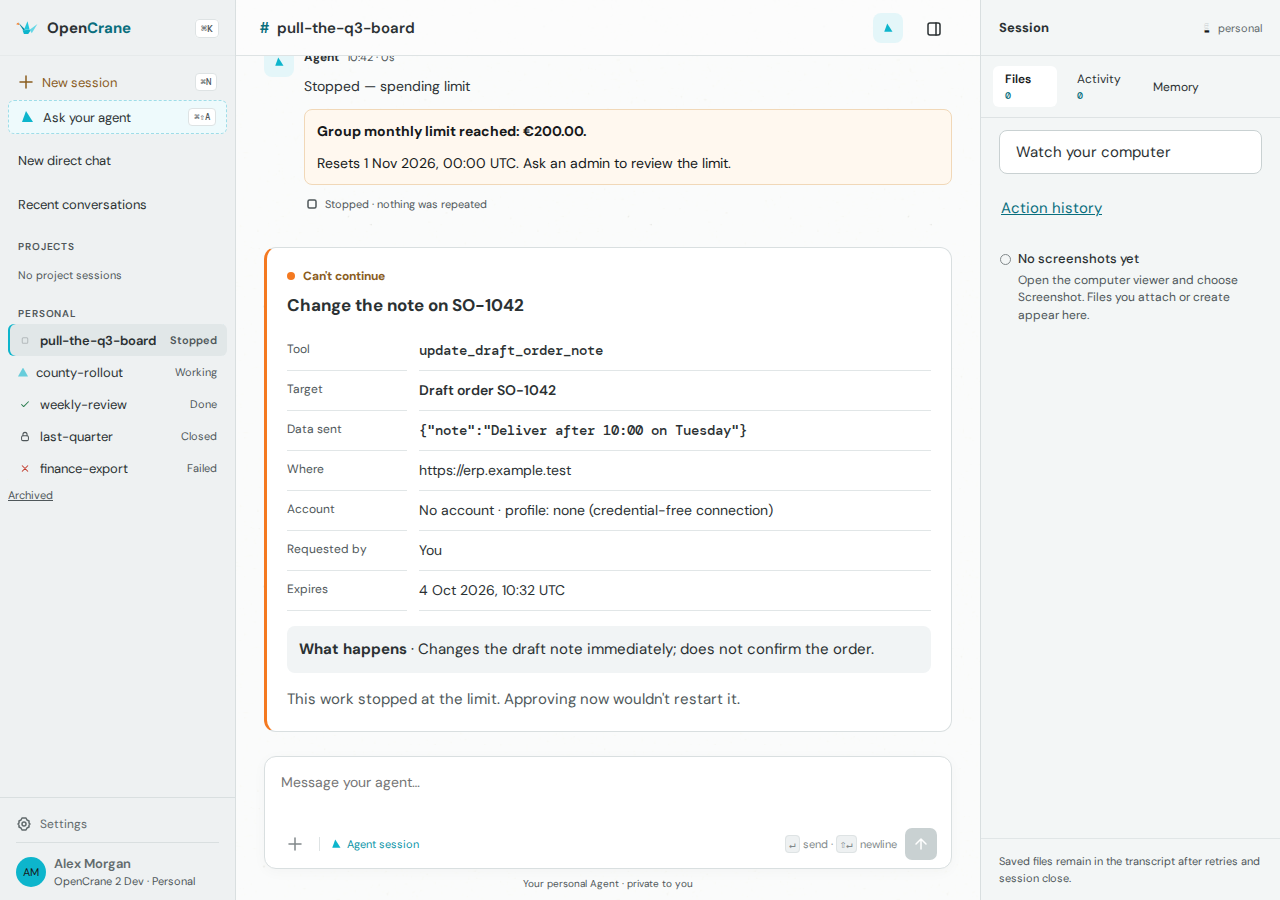
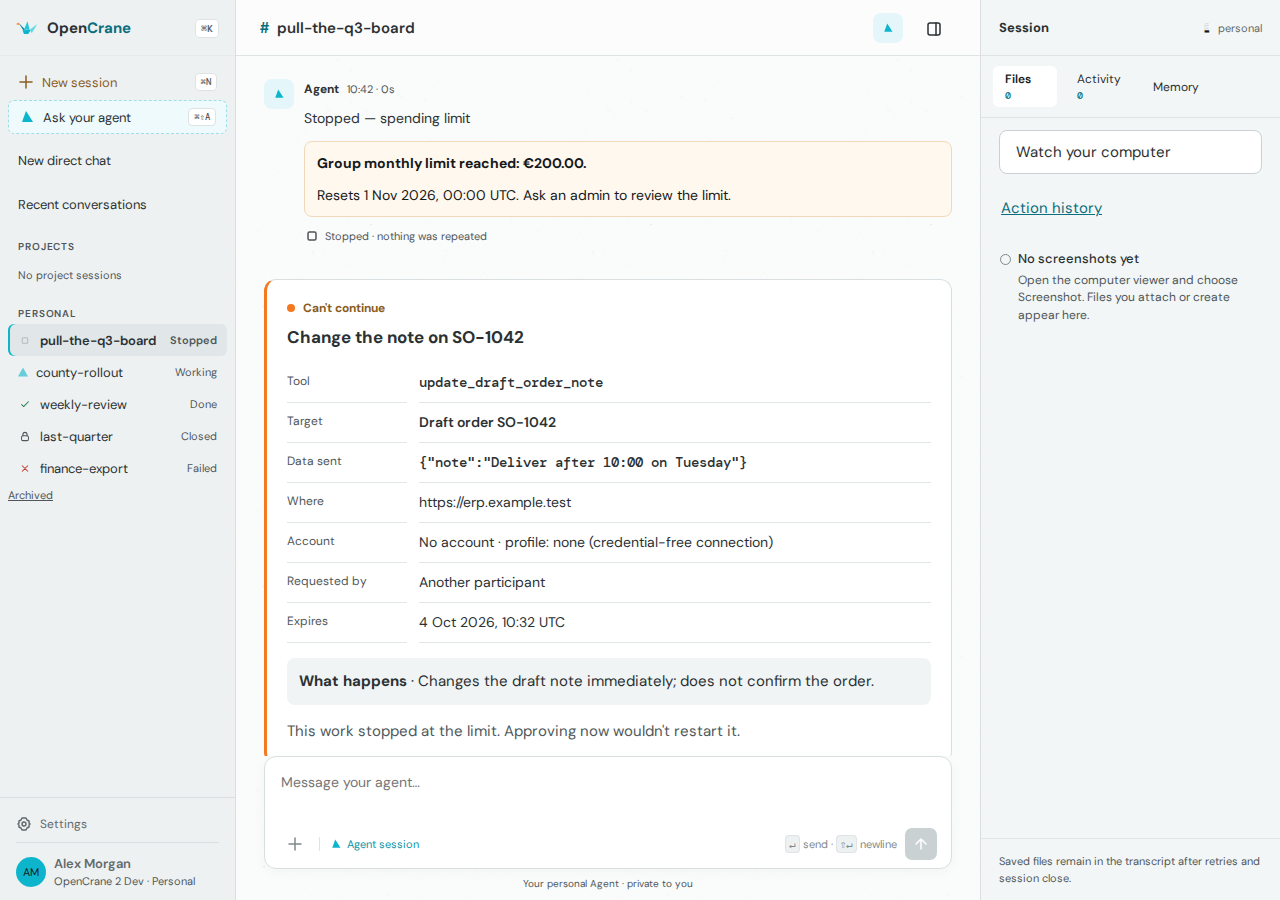
🛑 Show cancelled stop reviews and refresh after end reports

Changed region(s): [[0.2188, 0.0622, 0.6875, 0.84]]

diff --git a/apps/web/src/app/chat/chat-state.ts b/apps/web/src/app/chat/chat-state.ts
@@ -3,6 +3,7 @@ import type { ChatConversation, ChatRow } from '@opencrane/protocol';
 
 export interface Turn {
   id: string; author: 'you' | 'person' | 'agent'; text: string; time: string; endedAt?: string;
+  endReportedAt?: string;
   state: 'working' | 'stopping' | 'done' | 'failed' | 'stopped' | 'lost';
   tools: ToolActivityRecord[];
   files: string[]; budgetStop?: 'budget_exhausted'; screenshotRejected?: true;
@@ -179,9 +180,12 @@ function skipStoppedTurnRow(turn: Turn, row: ChatRow): boolean {
     turn.stopRequested = true;
     turn.endedAt = row.time;
   }
-  // Use the first saved ending report when no stop request ended queued work.
-  if (turn.budgetStop && !turn.stopRequested && (row.type === 'agent.turn_failed'
-    || row.type === 'agent.turn_completed')) turn.endedAt = row.time;
+  // Keep the first end report apart from the time queued work was stopped.
+  if (turn.budgetStop && !turn.endReportedAt && (row.type === 'agent.turn_failed'
+    || row.type === 'agent.turn_completed')) {
+    turn.endReportedAt = row.time;
+    if (!turn.stopRequested) turn.endedAt = row.time;
+  }
   return true;
 }
 
@@ -249,6 +253,7 @@ function updateTurnOutcome(turn: Turn, row: ChatRow, lostOutput: Set<string>): v
   if (row.type === 'agent.turn_failed') {
     turn.state = turn.stopRequested || turn.state === 'stopping' ? 'stopped' : 'failed';
     turn.endedAt = row.time;
+    turn.endReportedAt = row.time;
     markRunningCallsUnconfirmed(turn);
     if (row.data.reason) turn.reason = row.data.reason;
     return;
@@ -256,6 +261,7 @@ function updateTurnOutcome(turn: Turn, row: ChatRow, lostOutput: Set<string>): v
   if (row.type === 'agent.turn_completed') {
     turn.state = lostOutput.has(turn.id) ? 'lost' : 'done';
     turn.endedAt = row.time;
+    turn.endReportedAt = row.time;
     markRunningCallsUnconfirmed(turn);
   }
 }

diff --git a/apps/web/src/app/chat/workspace.spec.ts b/apps/web/src/app/chat/workspace.spec.ts
@@ -837,7 +837,7 @@ it('refreshes unavailable stop details once when queued work gets its end report
   ]);
   const initialFetch = globalThis.fetch;
   let budgetReads = 0;
-  vi.spyOn(globalThis, 'fetch').mockImplementation((input, init) => {
+  function budgetStopFetch(input: RequestInfo | URL, init?: RequestInit): Promise<Response> {
     const path = input instanceof Request ? input.url : String(input);
     if (!path.includes('/budget-stops?')) return initialFetch(input, init);
     budgetReads += 1;
@@ -850,7 +850,8 @@ it('refreshes unavailable stop details once when queued work gets its end report
       positions: { stop: 2, turn: 3, conversation: 4, computer: 5, budget: 6 },
     };
     return Promise.resolve(new Response(JSON.stringify(details)));
-  });
+  }
+  vi.spyOn(globalThis, 'fetch').mockImplementation(budgetStopFetch);
 
   const stopRequested = { id: 'stop-requested', position: 2,
     type: 'agent.turn_stop_requested', time: '2026-10-04T10:00:02Z',

diff --git a/apps/web/src/app/chat/approvals.html b/apps/web/src/app/chat/approvals.html
@@ -10,7 +10,7 @@
         [actionBusy]="checkingReadFailure()" (action)="checkReadFailure()" />
     }
     @for (card of orderedCards(); track card.approvalId) {
-      @if (card.state === 'requested') {
+      @if (card.state === 'requested' || (card.state === 'cancelled' && isStopped(card))) {
         <article class="approval pending" role="region" [attr.data-approval]="card.approvalId"
           [attr.aria-label]="isStopped(card) ? 'Cannot continue' : 'Approval needed'">
           <header>

diff --git a/apps/web/src/app/chat/workspace.html b/apps/web/src/app/chat/workspace.html
@@ -130,7 +130,7 @@
               }
               @if (turn.budgetStop) {
                 <oc-budget-stop-notice [conversationId]="chat.selected()" [turnId]="turn.id"
-                  [reconnectedAt]="chat.reconnectedAt()" [endedAt]="turn.endedAt ?? ''"
+                  [reconnectedAt]="chat.reconnectedAt()" [endedAt]="turn.endReportedAt ?? ''"
                   [denied]="chat.denied()" />
               }
               @if (turn.author === 'agent' && turn.state !== 'working') {

diff --git a/apps/web/README.robot.md b/apps/web/README.robot.md
@@ -384,7 +384,9 @@ progress.
 
 A budget stop row marks only its own turn. A turn that never started ends as stopped.
 The notice reads saved stop details once when it appears, when the socket reconnects,
-and when the turn ends. Check again is a GET. A failed read keeps the stop visible;
+and when the first turn end report arrives. A queued stop has its own time, so an end
+report still refreshes a failed or earlier read. Check again is a GET. A failed read
+keeps the stop visible;
 lost access clears reasons and amounts. A `not_stopped` reply keeps the older generic
 notice because the saved row gives no scope or reset. A reset adds a dated line but
 never restarts the old turn. `npm run visual:screen-p3-14-stop` captures both widths.
@@ -458,12 +460,14 @@ checks layout at 320px.
 
 The chat restores approval cards from the authenticated approval endpoint above
 the composer. Cards with a turn id lose both decision actions when that turn has a
-budget stop. Their review stays visible and Enter cannot send a decision. Every participant sees the reviewed fields and consequence. Only
-the requester sees Approve and Deny. Other participants see that the requester
-must decide. Folded cards show only what the server proves. A used approval says
-that its result is unknown. A lost decision reply leads to one status read. The
-browser never repeats the POST by itself. A 503 can also mean the server refused
-before recording the choice. If a
+budget stop. A card cancelled by that stop still shows its review and why it cannot
+continue. A separately recorded approval outcome stays visible as its own result.
+Enter cannot send a decision. Every participant sees the reviewed fields and
+consequence. Only the requester sees Approve and Deny. Other participants see
+that the requester must decide. Folded cards show only what the server proves.
+A used approval says that its result is unknown. A lost decision reply leads to
+one status read. The browser never repeats the POST by itself. A 503 can also
+mean the server refused before recording the choice. If a
 409 is followed by a still-open approval, the card says the choice was not recorded
 and lets the requester choose again. A 200 keeps the card locked with a recorded
 message until a later read shows its latest state, even if the first read fails.

diff --git a/docs/process/screen-p3-14-stop/receipt.md b/docs/process/screen-p3-14-stop/receipt.md
@@ -1,5 +1,5 @@
 # Spending stop chat screens
 
-PASS: Intercepted chat replies were captured at 1280px and 390px with reduced motion. Each screen made one GET for its stop details and no write. No screen has horizontal overflow. Checked controls meet 44px, and the unavailable action has a 2px focus ring. The stopped approval has no decision action.
+PASS: Intercepted chat replies were captured at 1280px and 390px with reduced motion. Each screen made one GET for its stop details and no write. No screen has horizontal overflow. Checked controls meet 44px, and the unavailable action has a 2px focus ring. The cancelled approval keeps its ledger and stop explanation without a decision action.
 
 Captures: WRK-40-1280.png, WRK-41-1280.png, WRK-42-1280.png, SPD-54-1280.png, WRK-44-1280.png, WRK-45-1280.png, unavailable-1280.png, WRK-40-390.png, WRK-41-390.png, WRK-42-390.png, SPD-54-390.png, WRK-44-390.png, WRK-45-390.png, unavailable-390.png.

diff --git a/apps/web/README.md b/apps/web/README.md
@@ -48,7 +48,7 @@ assistant check open rather than guessing an answer.
   the Assistant page, which shows when persona review becomes available.
 - Lets people start conversations, send messages and stop a reply.
 - Shows why a spending limit stopped work, including its reset time when available.
-  A stopped approval can be read but cannot be decided.
+  A stopped approval, including one now cancelled, keeps its review visible without decisions.
 - Lets Owners and Admins create an email invitation and copy its link. If the reply is
   lost, the People page checks that request's status before showing a link.
 - Lets organisation admins create shared assistants for groups and members start private
